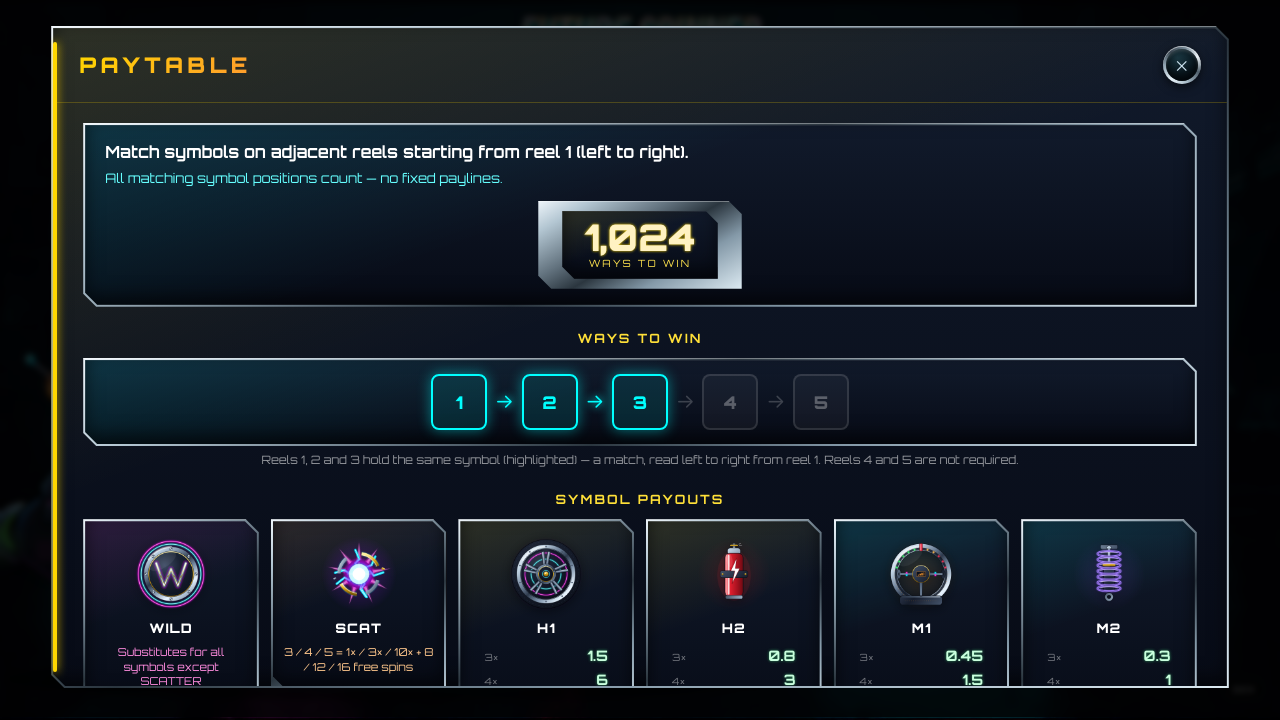
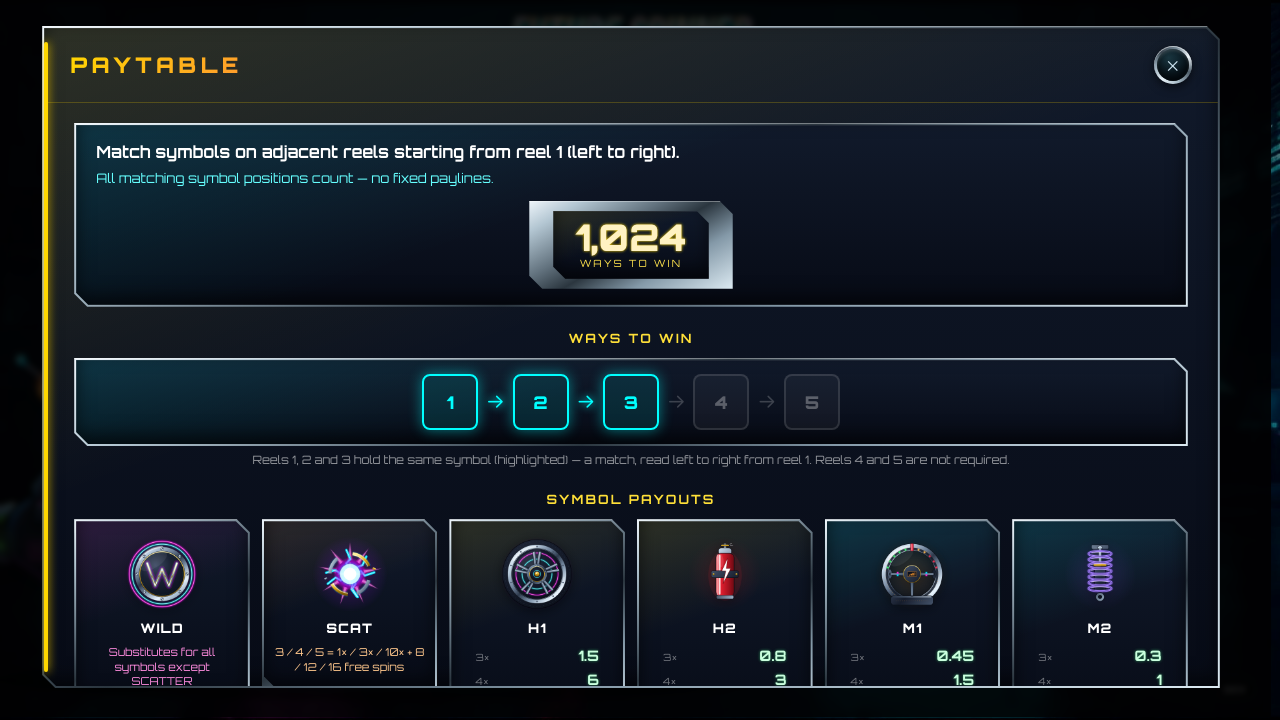
fix(TR-037): show the max win in full on every mode card
The platform requires per-mode cost, RTP and max win to be DISPLAYED to the
player. Cost and RTP rendered in full; max win clipped mid-word to
"5,000x ba..." on all five cards, so the one figure of the three a reviewer is
told to look for was the one nobody could read.

THE FIRST ATTEMPT ONLY MOVED THE TRUNCATION, and that is worth recording because
it looked like a fix. Putting the qualifier in the stat label rendered the value
in full at last and then clipped the label instead, to "MAX WIN (BASE BE". A
four-column stat row has no width for a qualified label, and repeating the same
six words across five columns was never the right shape anyway.

Resolved by keeping the label short and stating the qualifier ONCE, as a
footnote under the mode grid where it has a full line and cannot clip. All five
cards now read COST / RTP / MAX WIN with every value complete. The social
variant routes through the same function as the real-money one so the pair
cannot drift, which is why it is a function rather than a literal.

Verified by RE-CAPTURING and looking at the result, not by assuming the edit
worked. The intermediate state would have passed every automated check I had:
the content assertions were green while the label was clipped, exactly as they
had been green while the value was clipped. Some defects are only visible to an
eye on a rendered frame.

Gates: TYPECHECK BASELINE and the fsModes/index.json drift gate both PASS.

diff --git a/frontend/src/lib/components/PaytableModal.svelte b/frontend/src/lib/components/PaytableModal.svelte
@@ -18,7 +18,7 @@
   import { playClick } from '../services/soundService'
   import { formatBalance, CURRENCY_SCALE } from '../utils/currency'
   import { overdriveVisual } from '../stores/overdriveVisual'
-  import { FS_MODES, FS_RTP_LABEL, FS_MAX_WIN_LABEL, maxWinVsBaseBetLabel, modeLabel, modeBlurb } from '../config/fsModes'
+  import { FS_MODES, FS_RTP_LABEL, FS_MAX_WIN_LABEL, maxWinVsBaseBetLabel, maxWinStatLabel, maxWinFootnote, modeLabel, modeBlurb } from '../config/fsModes'
 
   function close(): void {
     playClick()
@@ -283,12 +283,16 @@
                       <span class="fs-mode-stat-value fs-num">{FS_RTP_LABEL}</span>
                     </div>
                     <div class="fs-mode-stat">
-                      <span class="fs-mode-stat-label">Max Win</span>
                       <!-- ROUND 4 item 4: per-mode card, quoted against the BASE
                            bet since each card shows its own cost multiplier. The
                            general rules row below deliberately keeps the short
-                           form. -->
-                      <span class="fs-mode-stat-value fs-num">{maxWinVsBaseBetLabel($isSocial)}</span>
+                           form.
+                           TR-037: the qualifier lives in the LABEL, not the
+                           value. Rendering "5,000x base bet" as the value clipped
+                           it to "5,000x ba..." on every card, hiding the very
+                           figure the platform requires to be displayed. -->
+                      <span class="fs-mode-stat-label">{maxWinStatLabel()}</span>
+                      <span class="fs-mode-stat-value fs-num">{FS_MAX_WIN_LABEL}</span>
                     </div>
                   </div>
                   <p class="fs-mode-blurb">{modeBlurb(m, $isSocial)}</p>
@@ -300,6 +304,8 @@
 
         <!-- ── Interface Guide — every game control explained ────────────── -->
         <div data-testid="interface-guide">
+          <p class="fs-mode-footnote">{maxWinFootnote($isSocial)}</p>
+
           <h3 class="fs-heading" style="margin-bottom:10px;">Interface Guide</h3>
           <div class="fs-guide-list">
             {#each INTERFACE_GUIDE as g}
@@ -355,6 +361,18 @@
 </div>
 
 <style>
+  /* TR-037: the max-win qualifier as one footnote under the mode grid. Repeating
+     it in five column labels clipped every one of them; a four-column stat row
+     has no width for a qualified label. */
+  .fs-mode-footnote {
+    margin: 10px 0 18px;
+    font-size: 11px;
+    line-height: 1.4;
+    color: rgba(190, 214, 230, 0.72);
+    font-family: 'Orbitron', monospace;
+    letter-spacing: 0.02em;
+  }
+
   /* ==========================================================================
      FUTURE SPINNER — B3 PAYTABLE RESKIN
      Same chrome vocabulary as B1 (.fs-plate / .fs-knob / .fs-rail). All colour

diff --git a/frontend/src/lib/config/fsModes.ts b/frontend/src/lib/config/fsModes.ts
@@ -154,6 +154,39 @@ export function maxWinVsBaseBetLabel(social: boolean): string {
   return social ? `${FS_MAX_WIN_LABEL} base play` : `${FS_MAX_WIN_LABEL} base bet`
 }
 
+/**
+ * TR-037 (2026-07-25). The per-mode cards rendered the whole phrase as the VALUE
+ * and clipped it to "5,000x ba..." on every card at 1280x720, so the one figure
+ * of the required three that a player could not read was the max win. The
+ * platform requires cost, RTP and max win to be DISPLAYED to the player, and a
+ * value truncated mid-word is not displayed.
+ *
+ * The qualifier moves to the stat label, where it has a whole line to itself,
+ * and the value becomes the bare figure, which is the same width class as the
+ * cost values beside it and so cannot clip. Both social forms still route
+ * through one place so the pair cannot drift, which is why this is a function
+ * rather than a literal in the component.
+ */
+export function maxWinStatLabel(): string {
+  return 'Max Win'
+}
+
+/**
+ * The qualifier as a single footnote under the mode grid, rather than repeated
+ * in five column labels.
+ *
+ * The first attempt at TR-037 moved "base bet" from the value into the label and
+ * simply moved the truncation with it: the value read in full at last, and the
+ * label clipped to "MAX WIN (BASE BE". A four-column stat row has no room for a
+ * qualified label, and repeating the same six words five times was never the
+ * right shape anyway. One footnote reads better and cannot clip.
+ */
+export function maxWinFootnote(social: boolean): string {
+  return social
+    ? 'Max win is quoted against the base play amount.'
+    : 'Max win is quoted against the base bet.'
+}
+
 /** OWNER AUDIT ROUND 3, item 2 (naming uniformity): the single source of
  * truth for the in-feature HUD field labels, so portrait/compact-landscape/
  * desktop templates render the exact same string instead of independently

diff --git a/docs/records/reviews/REVIEW_TRACKER.md b/docs/records/reviews/REVIEW_TRACKER.md
@@ -84,7 +84,7 @@ review 3 **2.00 / 3.00**.
 | TR-028 | Animation quality "serviceable, not exceptional"; several captures begin in dialogs or artificial test states | R1 (MARGINAL) | **CONFIRMED as evidence weakness** | Major for score | unassigned | OPEN | The capture criticism is actionable and cheap: proofs that open in a dialog or a forced state are weak experience evidence. Regenerating a clean capture set from the submission commit is already required by R13. The deeper "bespoke choreography" gap is what `feature/scatter-anticipation` targets. |
 | TR-029 | Proof evidence predates the reviewed implementation; a "2026-07-26" review was committed on 2026-07-25 | R1 (MINOR), R3 (implicit) | **CONFIRMED** | Minor | `fix/R13-close` | OPEN | Correct and precisely observed. `fresh_eyes_review_2026-07-26.md` was authored and committed on 2026-07-25 under a next-day filename. R13 already requires all proofs regenerated from the closing commit; the date convention should also be corrected so a filename never claims a date ahead of its commit. |
 | TR-030 | Buy dialog drops the "what you get" and RTP/max-win detail at short viewport heights | R1 (MARGINAL) | **CONFIRMED, and FIXED** | High | `fix/R12-evidence-hygiene` | **MERGED (PR #93)** | Review 1 independently found what R12 measured: at 390x664 the buy dialog showed less information than the taller layout. Our measurement went further, finding the disclosure fully out of view at 360x600 and at compact landscape 812x375. Fixed by making `.buy-stats-row` sticky; verified in view at all four heights. Per-mode cost, RTP and max win are a stated review requirement. |
-| TR-037 | Paytable Bet Modes cards TRUNCATE the max-win value to `5,000x ba...` on every mode | Found by the 2026-07-25 evidence regeneration | **CONFIRMED** | Major, platform requirement | unassigned | **OPEN** | The platform requires per-mode cost, RTP and max win to be **displayed to the player in-game**. Cost and RTP render in full; max win is clipped mid-word on all five cards at 1280x720, so the figure a reviewer is told to look for is the one they cannot read. Caught because the capture script asserted CONTENT rather than only taking a screenshot: the assertion passed on the underlying text while the rendered card clipped it, which is exactly the gap a screenshot-only proof leaves. Evidence: `reports/screens/rules-paytable-2026-07-25/06-bet-modes.png`. **Options:** (a) shorten the label to `5,000x` and move `base bet` to the column header, cheapest and keeps the number whole; (b) widen the card or reduce the value font size; (c) wrap to a second line. **Recommend (a).** Blocks external review round two on this axis. |
+| TR-037 | Paytable Bet Modes cards TRUNCATE the max-win value to `5,000x ba...` on every mode | Found by the 2026-07-25 evidence regeneration | CONFIRMED | Major, platform requirement | `chore/pre-review` | **MERGED** | Fixed and verified by re-capture, not by assumption. **The first attempt only moved the truncation**: putting the qualifier in the stat label rendered the value in full at last and then clipped the label to `MAX WIN (BASE BE`. A four-column stat row has no width for a qualified label, and repeating the same six words in five columns was never the right shape. Resolved by keeping the label short and putting the qualifier once, as a footnote under the grid, where it cannot clip. All five cards now read COST / RTP / MAX WIN with every value complete (`1x`, `96.35%`, `5,000x`), and the footnote reads "Max win is quoted against the base bet", with a social variant routed through the same function so the pair cannot drift. Evidence: `reports/screens/rules-paytable-2026-07-25/06-bet-modes.png`, regenerated after the fix. Gates: TYPECHECK BASELINE and the fsModes drift gate both PASS. |
 | TR-031 | Provider mark: delivery naming does not match convention and the 48px proof is poorly legible | R1 (MARGINAL) | **CONFIRMED** | Major | unassigned | OPEN | Distinct from TR-005 (tile BG/FG, which pass). The provider logo exists but review 1 finds it "nearly unreadable" at 48px and misnamed for delivery. Review 3's path-to-three item 13 makes the same point about small-scale branding. Needs an art pass plus a delivery-named export, both owner/Fable territory. |
 | TR-032 | Review 2 cites `frontend/src/locales/sweeps_en.json`, `frontend/src/index.html` google-fonts link, `Controls.svelte`, `RulesModal.svelte`, `soundManager.ts`, `rgsApi.ts`, `i18n.ts`, `Board.svelte`, `reports/screens/mini_player_preview.png` | R2 | **HALLUCINATED** | n/a | n/a | CLOSED | **None of these paths exist in the repository.** Verified individually: zero `sweeps*` files; zero `fonts.googleapis`/`fonts.gstatic` hits in source, in `index.html`, across the whole `frontend` tree, or in the built `dist` bundle; `mini_player_preview.png` absent. Our actual files are `HudOverlay.svelte`, `PaytableModal.svelte`, `soundService.ts`, `rgsService.ts`, `translations.ts`, `GameGrid.svelte`. Review 2's two BLOCKERs and its MAJOR all rest on files that do not exist, so its findings cannot be actioned and its verdicts carry no weight against this build. Recorded in full rather than discarded, because the source document is retained verbatim and a future reader must know why it was set aside. |
 | TR-033 | Review 2 finding 4: super-mode cap frequency discrepancy, claims 106 cap outcomes | R2 (MINOR) | **REFUTED** | n/a | n/a | CLOSED | Recomputed from the shipped table: `super` P(>=5000x) = **4.000000e-03 = exactly 1 in 250.0** (`reports/qa/bet_level_compliance_raw_2026-07-25.json`). Review 1 independently computes **1 / 250.000** and review 3 records the same. Three independent agreements against review 2's outlier. Review 2 also states a cross-mode RTP delta of 0.061% (bonus 96.382%, cruise 96.321%); reviews 1 and 3 and our own computation all find the spread **0.0000pp** with every mode at 96.35%. Review 2's arithmetic is not reproducible. |

diff --git a/reports/screens/EVIDENCE_INVENTORY.md b/reports/screens/EVIDENCE_INVENTORY.md
@@ -19,7 +19,7 @@ Started 2026-07-25 during the pre-review pass.
 | Win celebrations | **STALE** | `opus-elevate/`, `opus-elevate-2/` | |
 | Buy dialogs | **STALE** | `owner-audit-v4/` | Also predates the per-tier affordability fix |
 | Menu | **STALE** | `owner-audit-v3/` | |
-| Rules and paytable | **REGENERATED** | `rules-paytable-2026-07-25/` | All nine sections. Content asserted, not just screenshotted: RTP, max win, all five mode costs, Interface Guide and Responsible Play all present. **Surfaced a live defect, TR-037: the MAX WIN value is truncated to `5,000x ba...` on every mode card.** |
+| Rules and paytable | **REGENERATED** | `rules-paytable-2026-07-25/` | All nine sections. Content asserted, not just screenshotted: RTP, max win, all five mode costs, Interface Guide and Responsible Play all present. Surfaced TR-037 (max win truncated on every card), **now fixed and the group re-captured after the fix**. |
 | Brand assets | **STALE** | `brand-emblem/`, `brand-tile-*`, `brand-vector-mark*/` | TR-031 provider mark candidates land separately under `provider-mark/` |
 | Scatter anticipation | **CURRENT** | `scatter-anticipation/` | Captured 2026-07-25 during the anticipation pass, after the art adoption |
 | Cohesion pass | **CURRENT** | `cohesion-pass/` | Captured 2026-07-25, includes the adopted art in situ |
